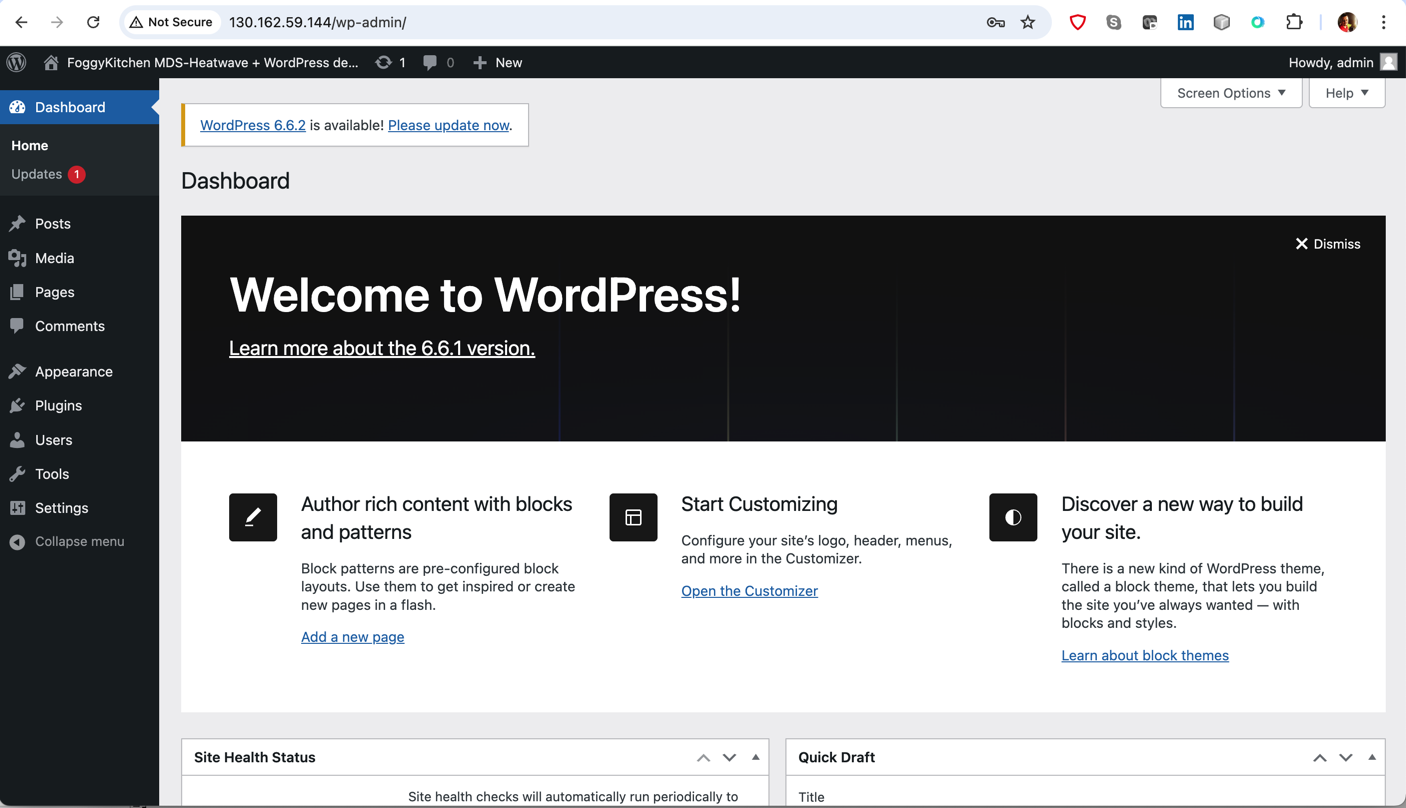
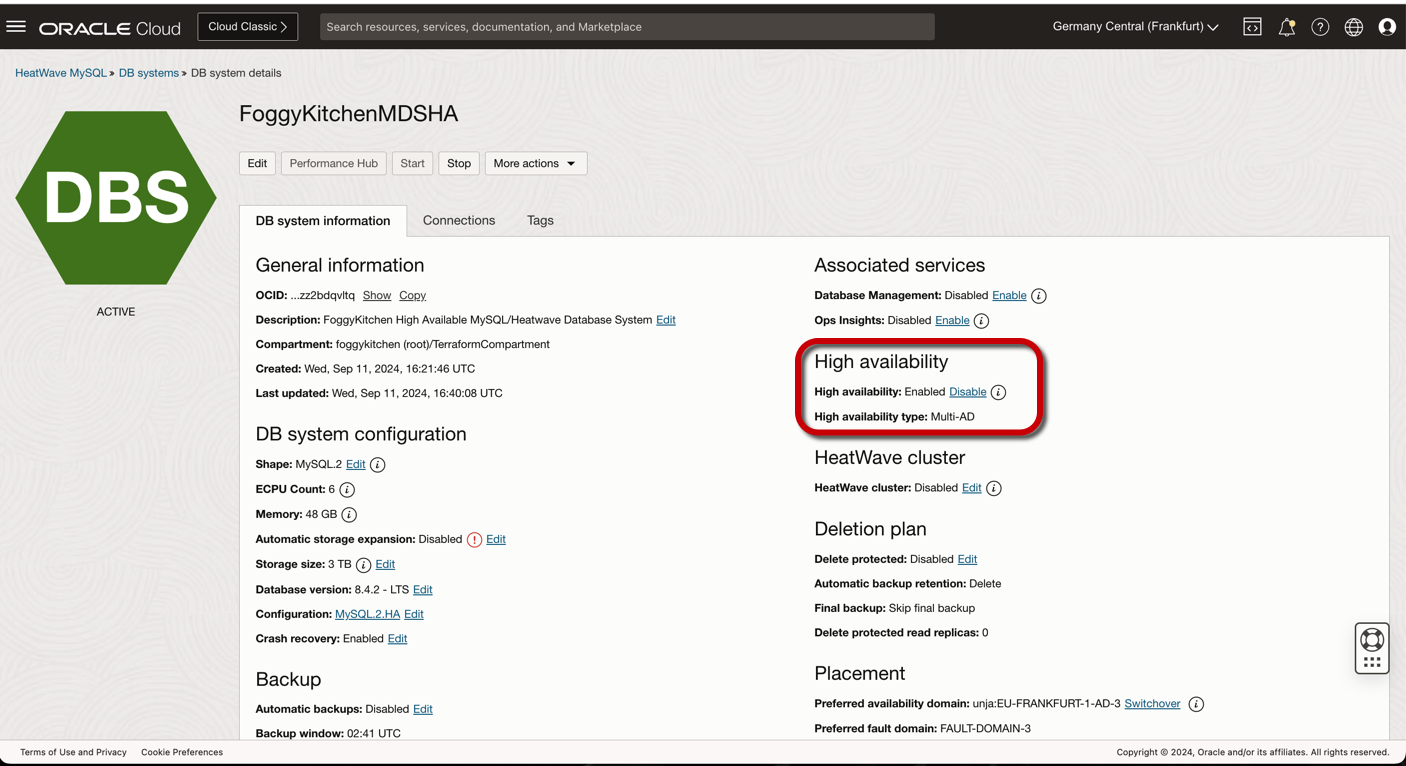
Updated images and README for lesson7

diff --git a/training/lesson7_ha_mds_with_ha_wordpress/README.md b/training/lesson7_ha_mds_with_ha_wordpress/README.md
@@ -199,11 +199,11 @@ wordpress_wp-admin_URL = "http://130.162.59.144/wp-admin/"
 
 1. Verify access to the WordPress Admin Console:
 
-![](images/lesson7_ha_mds_with_ha_wordpress1.png)
+![](images/lesson7_ha_mds_with_ha_wordpress2.png)
 
 2. Verify MDS instance in HA configuration:
 
-![](images/lesson7_ha_mds_with_ha_wordpress.png)
+![](images/lesson7_ha_mds_with_ha_wordpress1.png)
 
 3. Verify WordPress compute instances:
 
